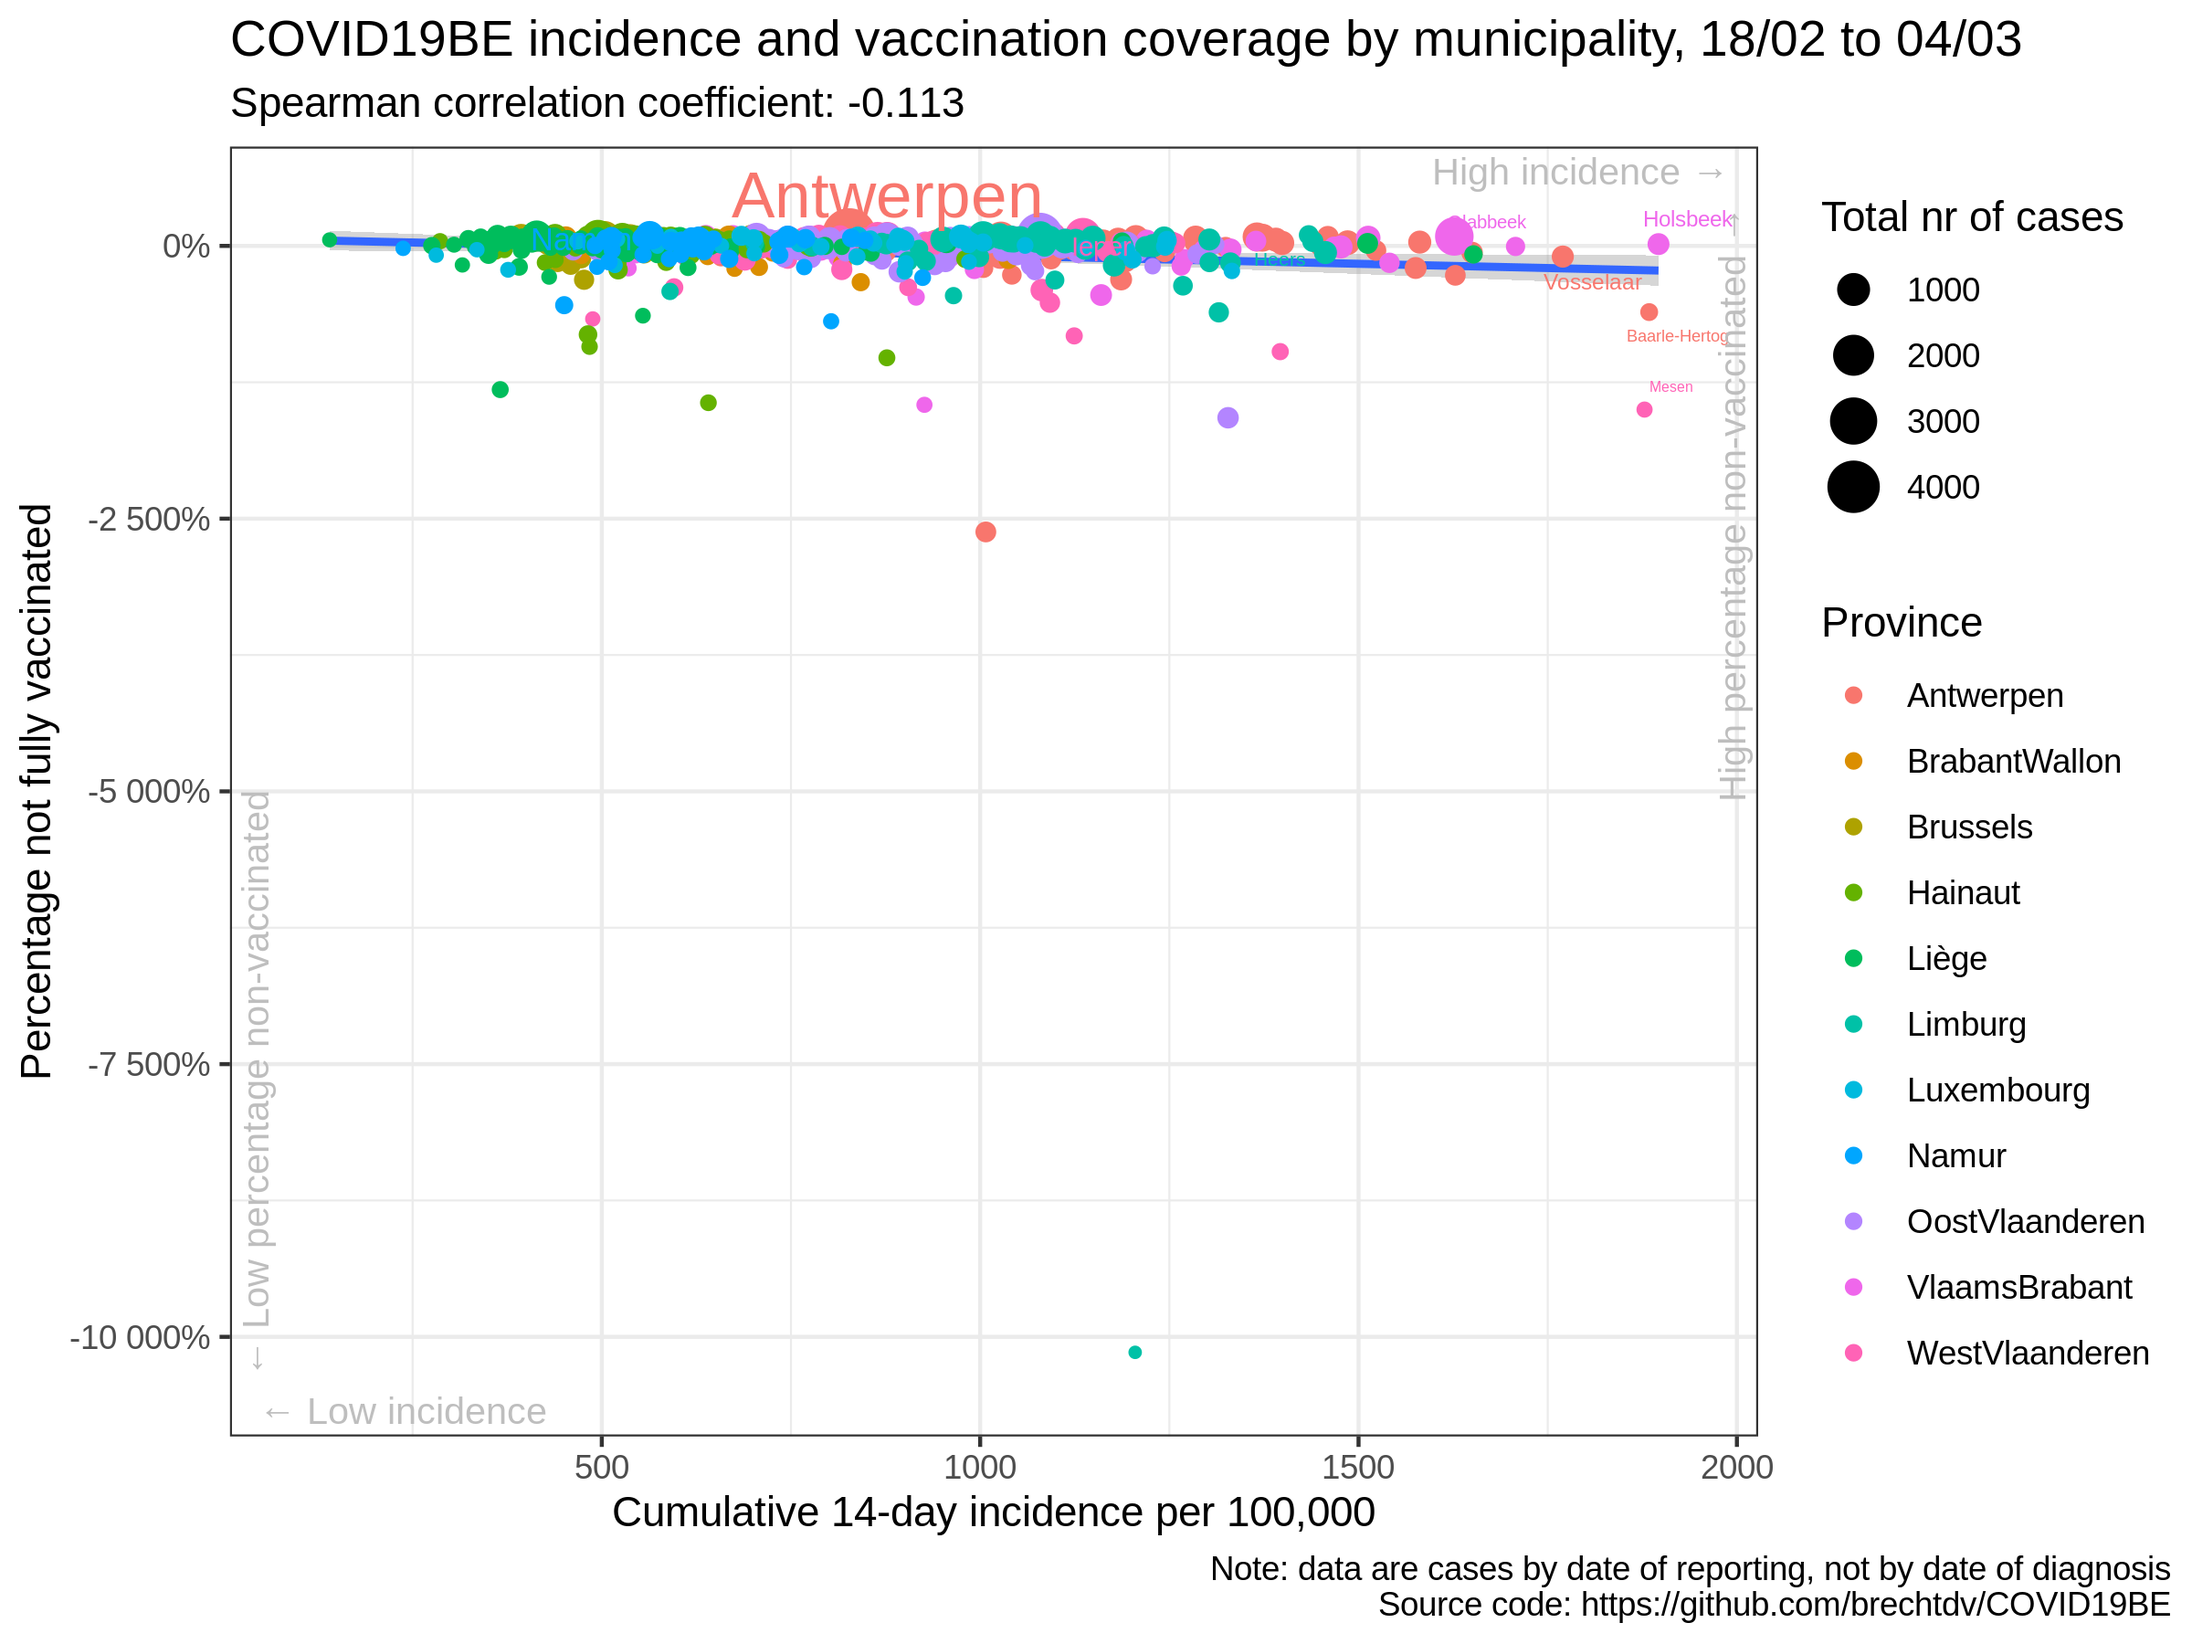
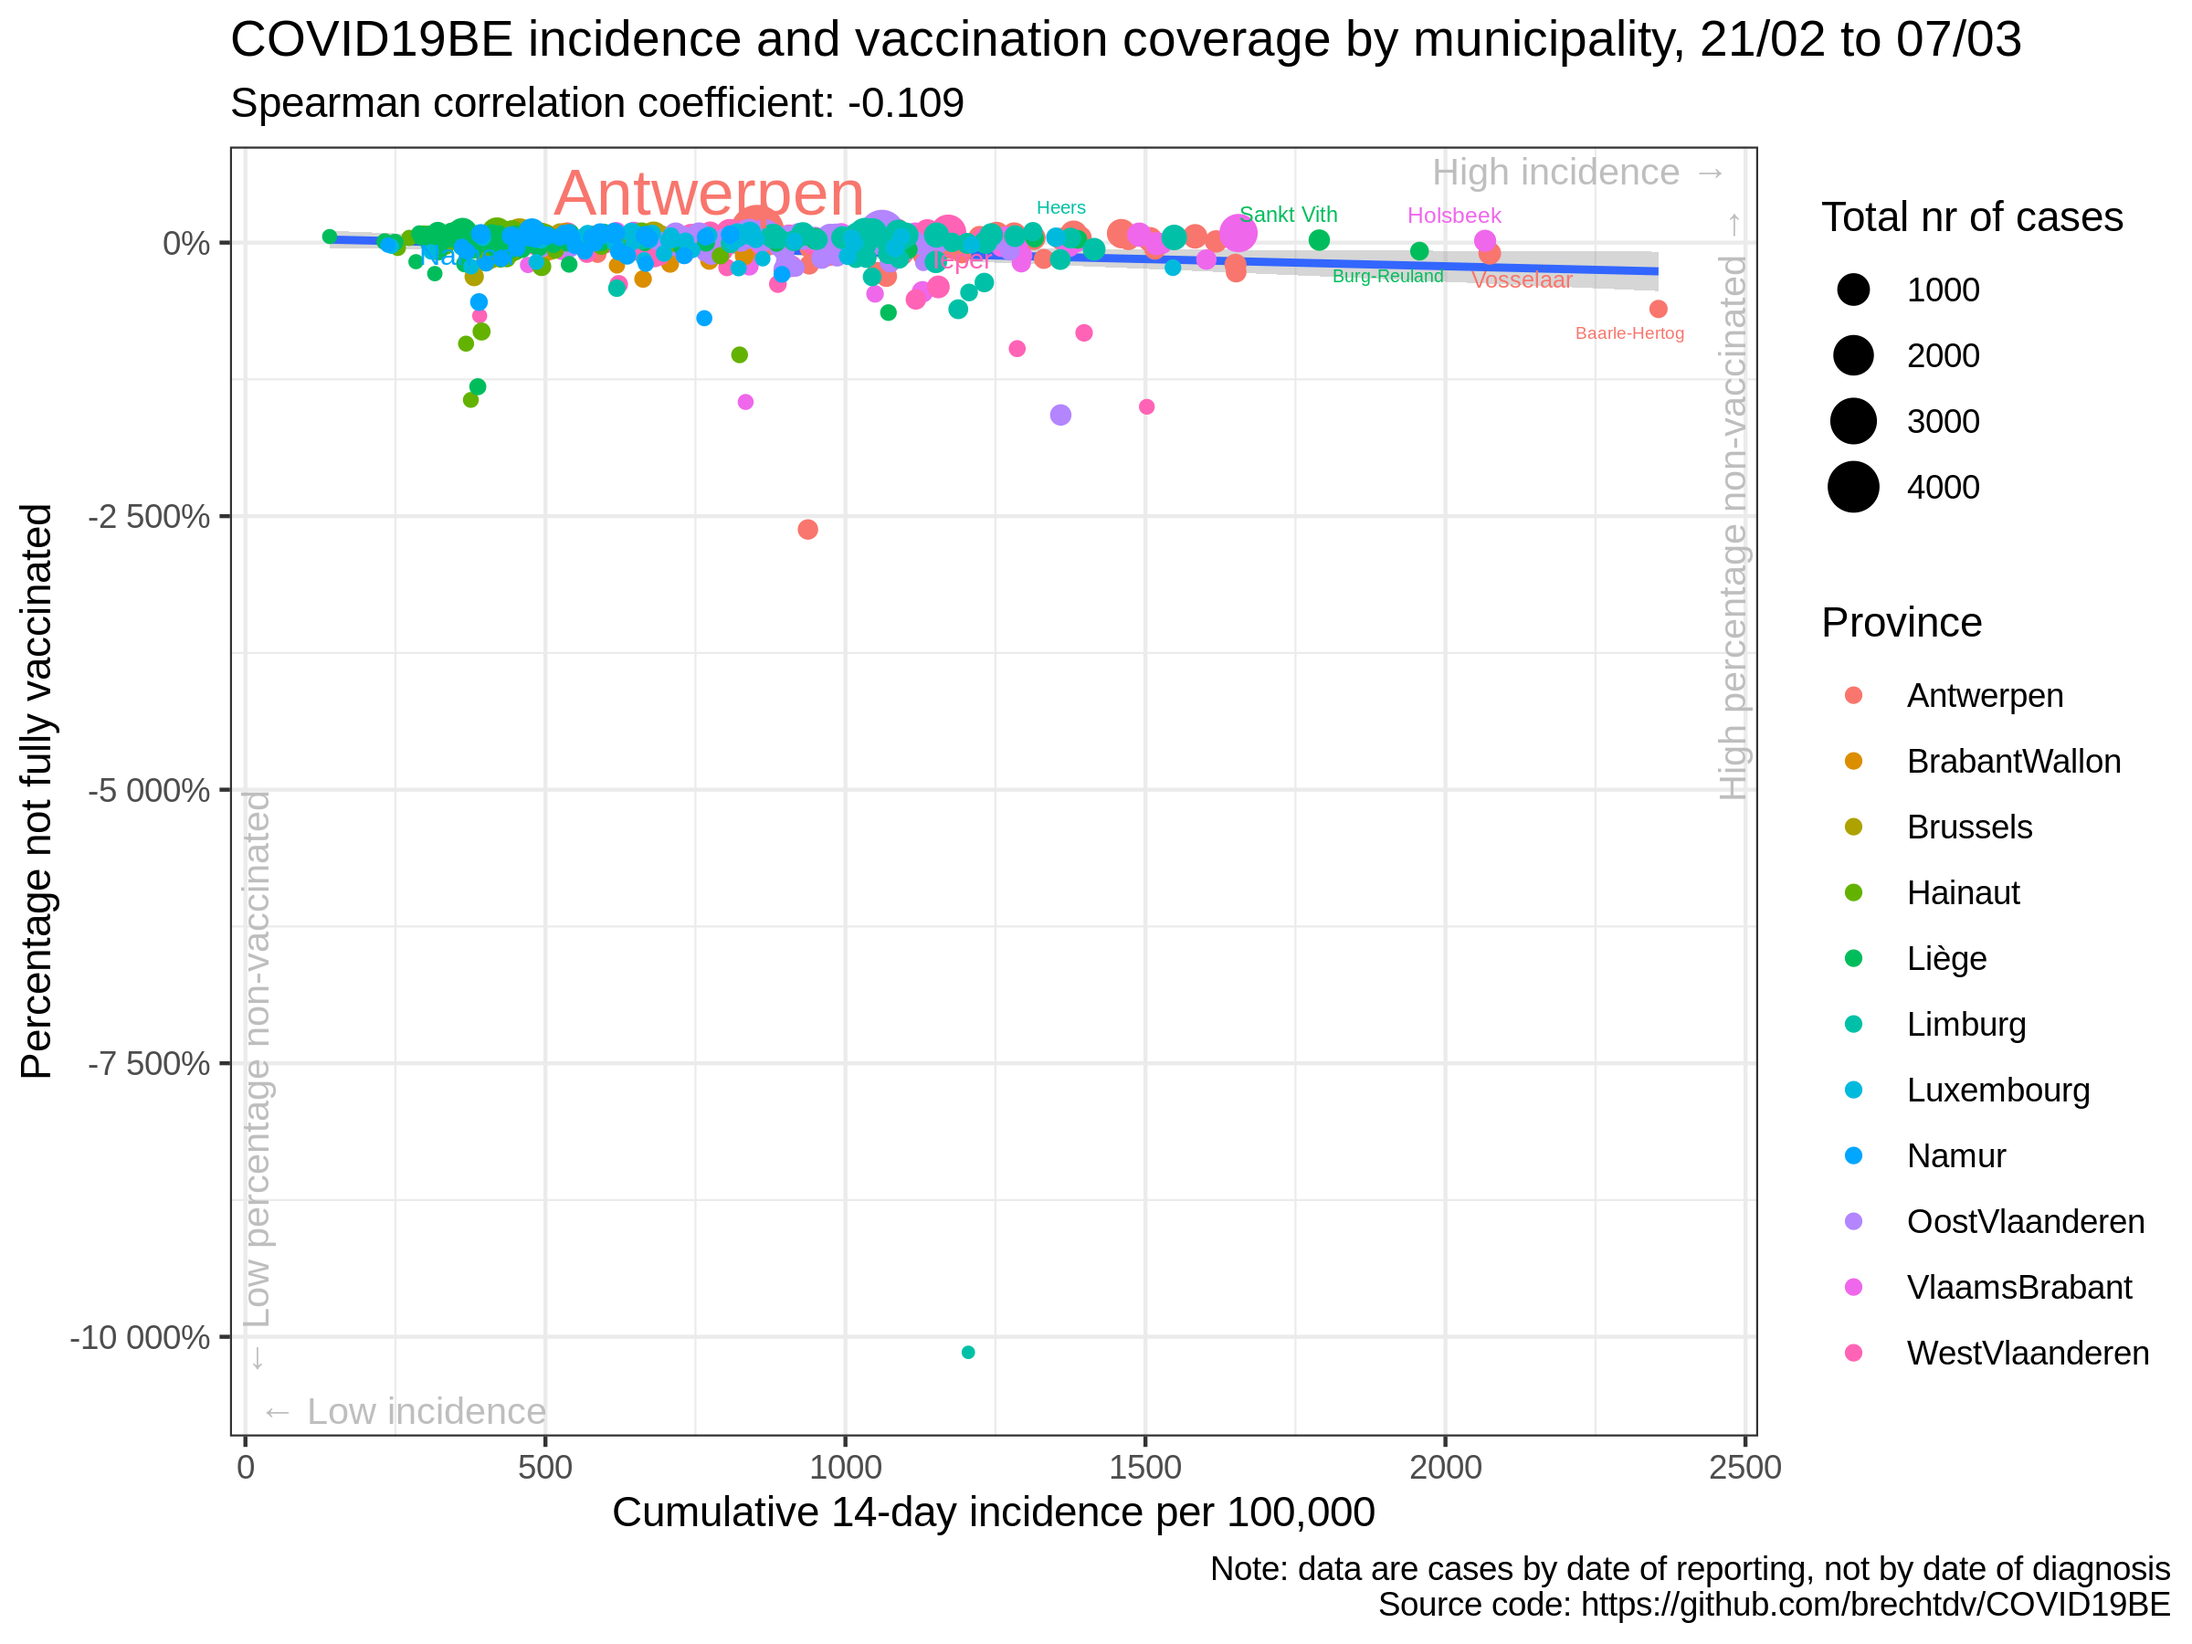
update situation

diff --git a/vaccination/README.md b/vaccination/README.md
@@ -17,34 +17,34 @@
 
 |                | estimate.rho | p.value |
 | :------------- | -----------: | ------: |
-| Antwerpen      |      \-0.008 |   0.947 |
-| BrabantWallon  |      \-0.451 |   0.019 |
-| Brussels       |        0.075 |   0.759 |
-| Hainaut        |      \-0.107 |   0.382 |
-| Liège          |      \-0.173 |   0.116 |
-| Limburg        |      \-0.042 |   0.790 |
-| Luxembourg     |      \-0.109 |   0.480 |
-| Namur          |        0.014 |   0.933 |
-| OostVlaanderen |      \-0.228 |   0.080 |
-| VlaamsBrabant  |      \-0.119 |   0.345 |
-| WestVlaanderen |        0.095 |   0.453 |
-| Belgium        |      \-0.113 |   0.006 |
+| Antwerpen      |        0.061 |   0.615 |
+| BrabantWallon  |      \-0.387 |   0.047 |
+| Brussels       |        0.111 |   0.652 |
+| Hainaut        |      \-0.007 |   0.955 |
+| Liège          |      \-0.203 |   0.064 |
+| Limburg        |      \-0.088 |   0.579 |
+| Luxembourg     |      \-0.111 |   0.470 |
+| Namur          |        0.000 |   0.998 |
+| OostVlaanderen |      \-0.163 |   0.214 |
+| VlaamsBrabant  |      \-0.096 |   0.448 |
+| WestVlaanderen |        0.075 |   0.553 |
+| Belgium        |      \-0.109 |   0.008 |
 
 ### Correlation cumulative incidence vs booster rate
 
 |                | estimate.rho | p.value |
 | :------------- | -----------: | ------: |
-| Antwerpen      |      \-0.013 |   0.918 |
-| BrabantWallon  |      \-0.441 |   0.022 |
-| Brussels       |        0.102 |   0.678 |
-| Hainaut        |      \-0.113 |   0.354 |
-| Liège          |      \-0.177 |   0.107 |
-| Limburg        |      \-0.034 |   0.829 |
-| Luxembourg     |      \-0.113 |   0.462 |
-| Namur          |        0.022 |   0.896 |
-| OostVlaanderen |      \-0.227 |   0.081 |
-| VlaamsBrabant  |      \-0.151 |   0.230 |
-| WestVlaanderen |        0.096 |   0.451 |
+| Antwerpen      |        0.054 |   0.660 |
+| BrabantWallon  |      \-0.377 |   0.053 |
+| Brussels       |        0.130 |   0.595 |
+| Hainaut        |      \-0.013 |   0.917 |
+| Liège          |      \-0.205 |   0.061 |
+| Limburg        |      \-0.076 |   0.633 |
+| Luxembourg     |      \-0.111 |   0.473 |
+| Namur          |        0.010 |   0.953 |
+| OostVlaanderen |      \-0.162 |   0.217 |
+| VlaamsBrabant  |      \-0.130 |   0.303 |
+| WestVlaanderen |        0.077 |   0.545 |
 | Belgium        |      \-0.164 |   0.000 |
 
 ### Data source
